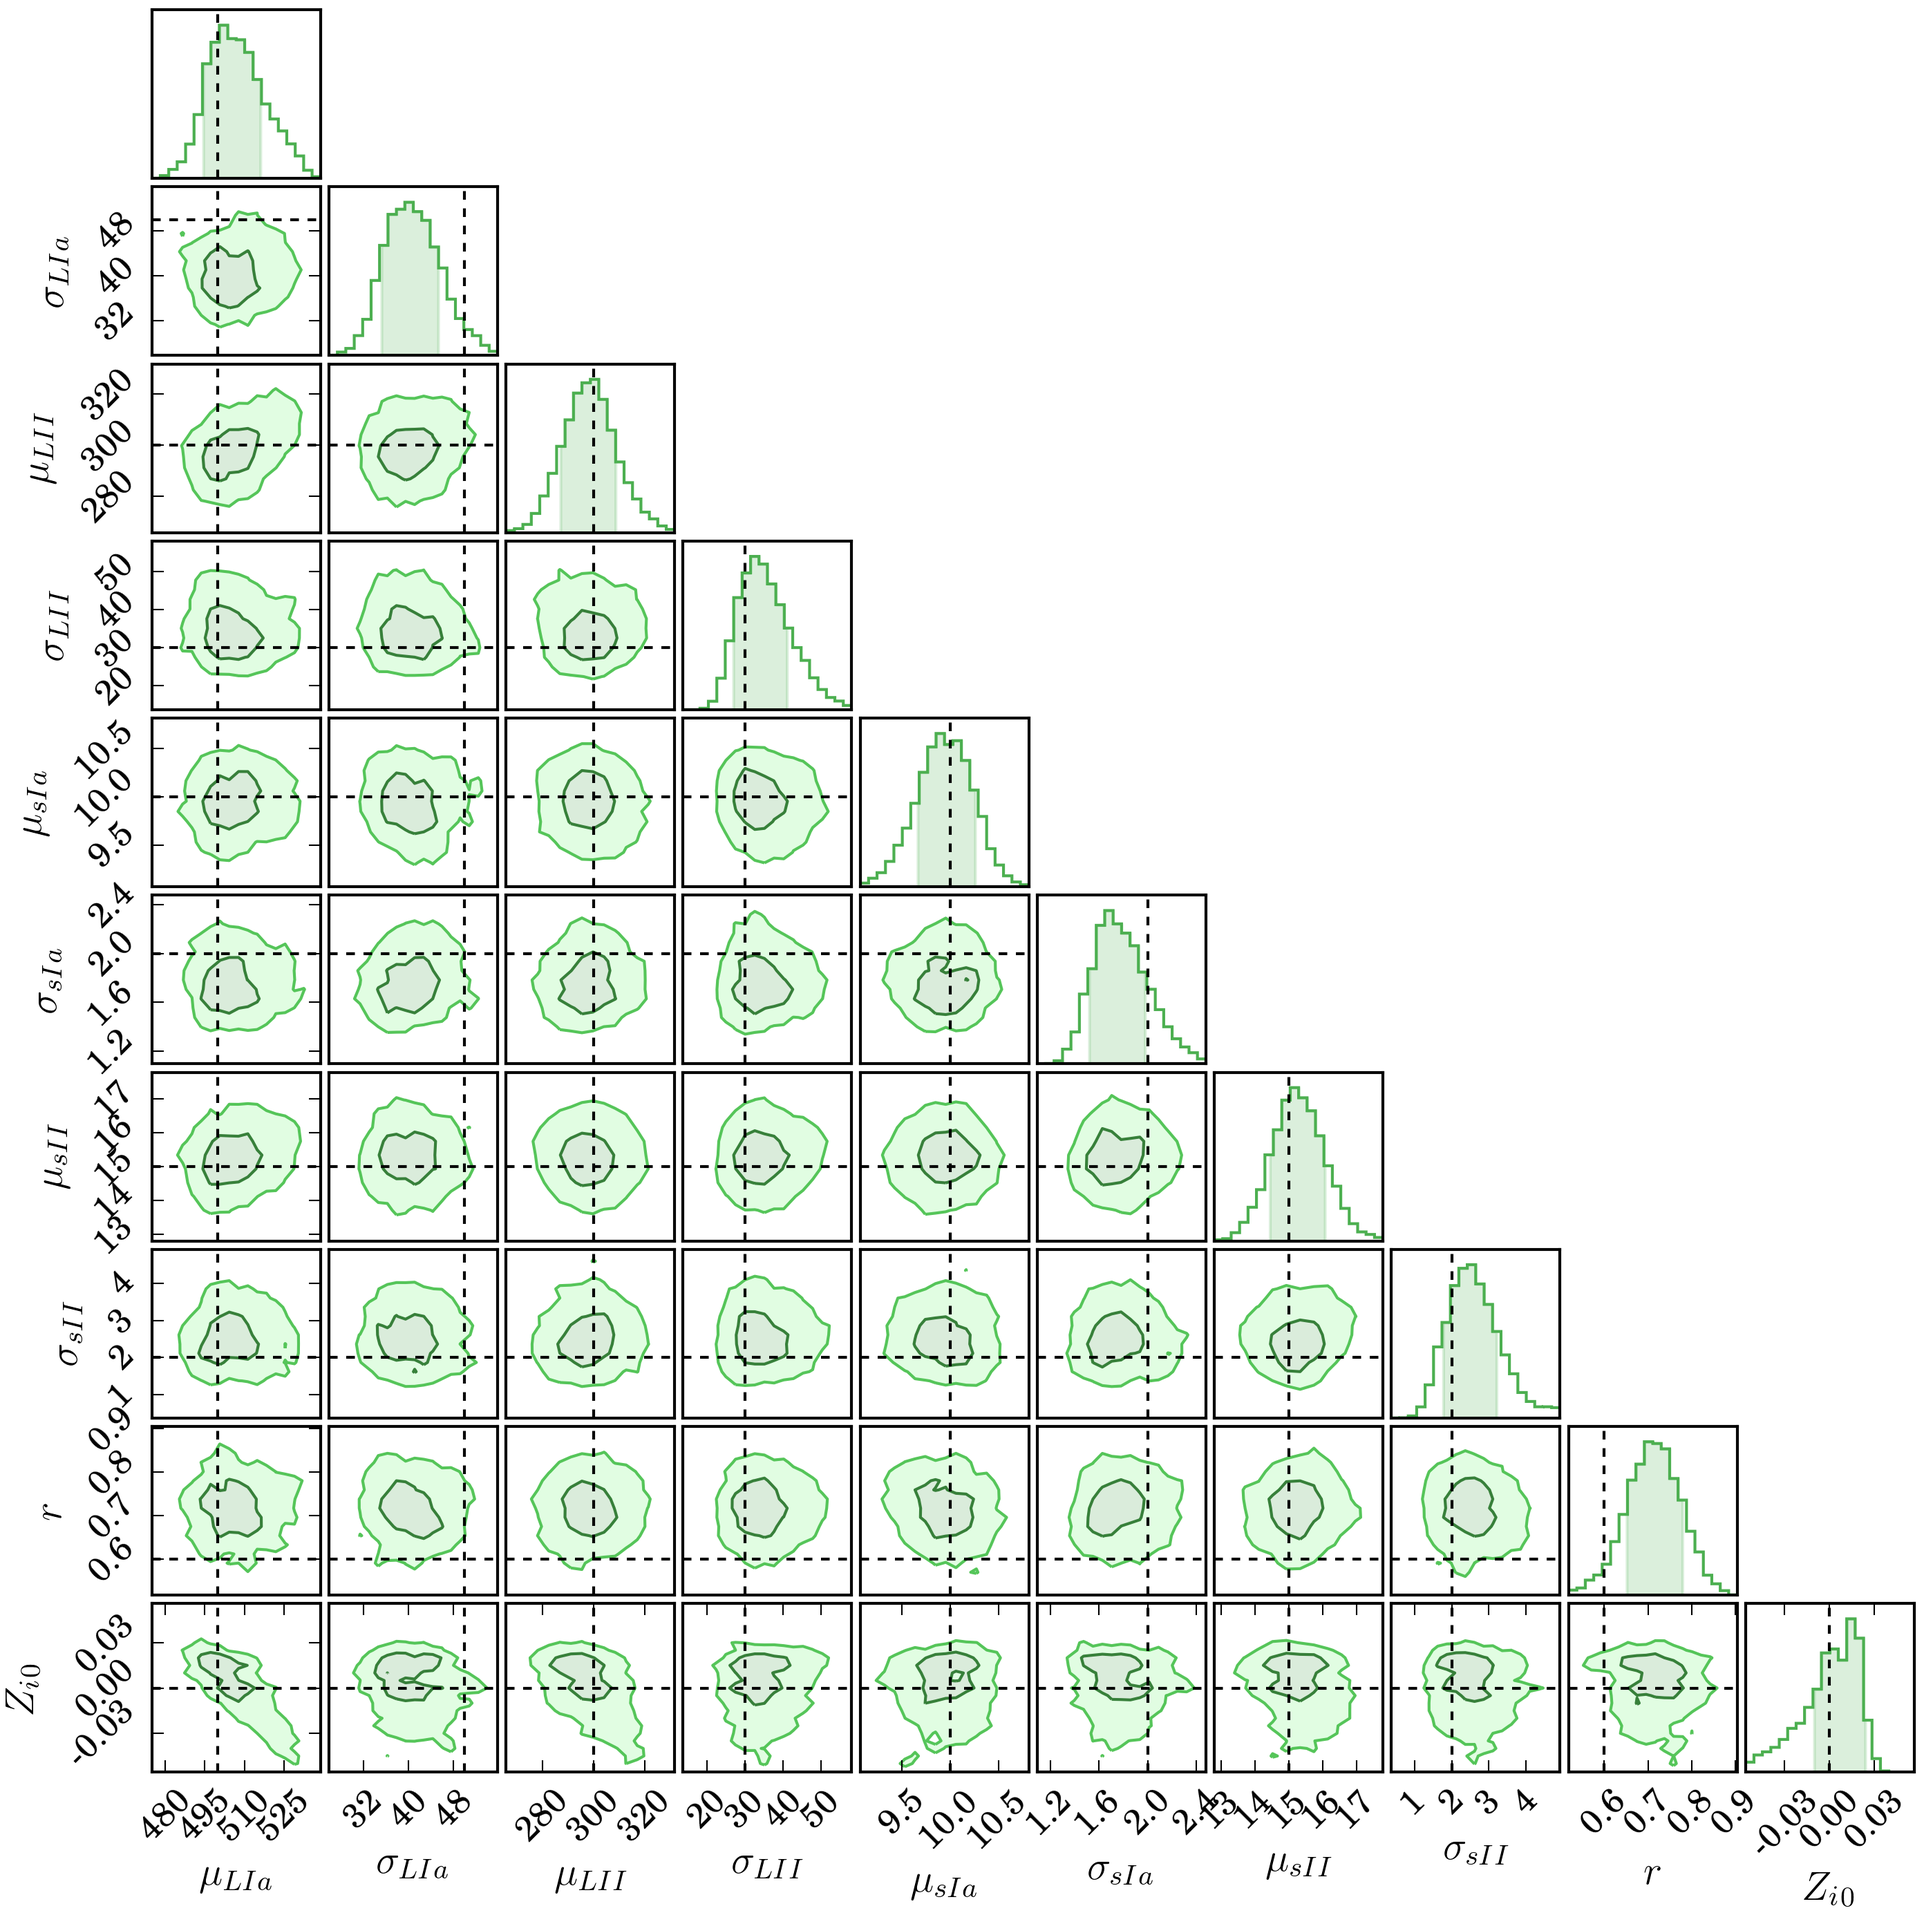
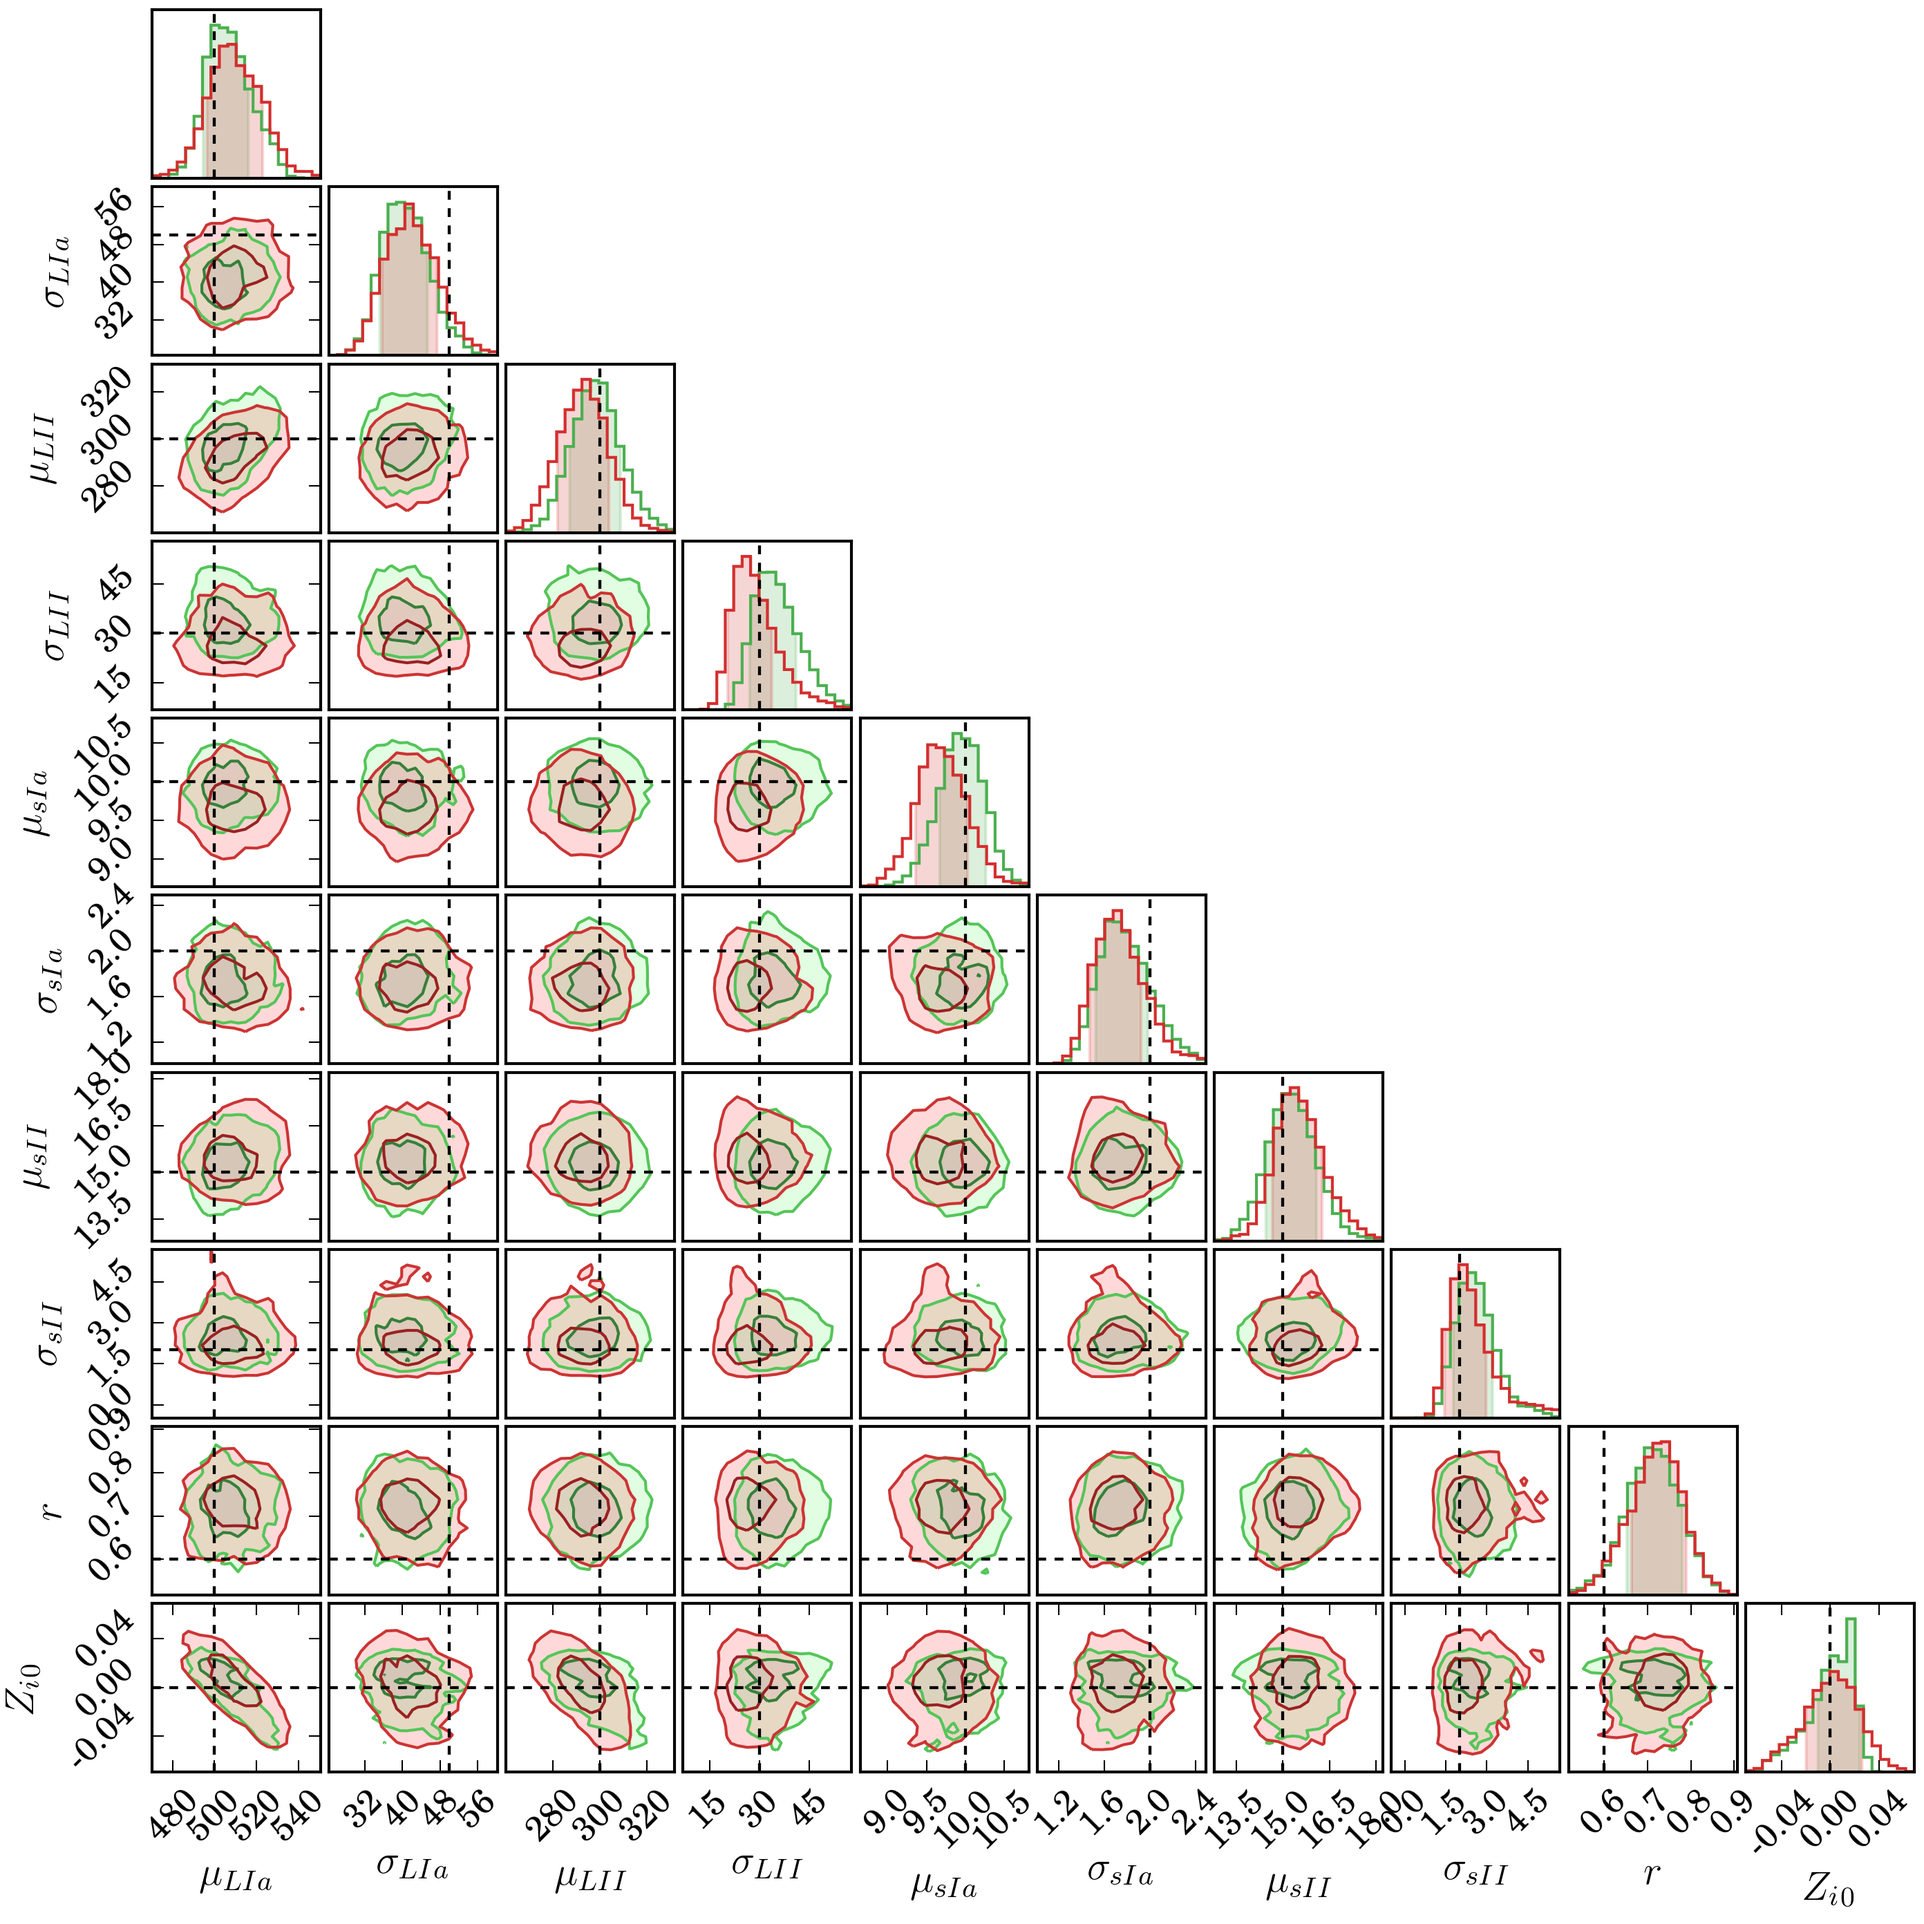
Unfortunately the bias is still not strong. Weights 50% computed.

diff --git a/dessn/proofs/efficiency_9/efficiency_model_9.py b/dessn/proofs/efficiency_9/efficiency_model_9.py
@@ -442,9 +442,12 @@ def get_weights(mul, mul2, sigmal, sigmal2, mus, mus2, sigmas, sigmas2, rate, z0
     ts = np.arange(-30, 30, 1)
     top1 = -(ts * ts)
     top2 = -(ts * ts)**0.5
-    top = type * top1 + (1 - type) * top2
-    interior = top[:, None] / (2 * ss * ss)[None, :]
-    fluxes = (ls / (zs * zs))[None, :] * np.exp(interior)
+    interior1 = top1[:, None] / (2 * ss * ss)[None, :]
+    interior2 = top2[:, None] / (2 * ss * ss)[None, :]
+    fluxes1 = (ls / (zs * zs))[None, :] * np.exp(interior1)
+    fluxes2 = (ls / (zs * zs))[None, :] * np.exp(interior2)
+
+    fluxes = type * fluxes1 + (1 - type) * fluxes2
 
     masks = []
     for z in [z0, z1]:
@@ -587,24 +590,25 @@ if __name__ == "__main__":
         model_good = EfficiencyModelUncorrected(cs, zs, ts, types, calibration, zeros, ls, ss, t0s, name="Good%d" % i)
 
         model_good.fit(sampler, chain_consumer=c)
-        # mtypes = [t for t, m in zip(types, mask) if m]
-        # model_un = EfficiencyModelUncorrected(cs[mask], zs[mask], ts[mask], mtypes, calibration,
-        #                                       zeros, ls[mask], ss[mask], t0s[mask], name="Uncorrected%d" % i)
-        # model_un.fit(sampler, chain_consumer=c)
-        #
-        # biased_chain = c.chains[-1]
-        # filename = dir_name + "/output/weights.txt"
-        # if not os.path.exists(filename):
-        #     weights = []
-        #     for i, row in enumerate(biased_chain):
-        #         weights.append(get_weights(row[0], row[1], row[2], row[3], row[4], row[5], row[6], row[7], row[8], row[9], row[10], threshold))
-        #         print(100.0 * i / biased_chain.shape[0])
-        #     weights = np.array(weights)
-        #     np.savetxt(filename, weights)
-        # else:
-        #     weights = np.loadtxt(filename)
-        # weights = (1 / np.power(weights, mask.sum()))
-        # c.add_chain(biased_chain, name="Importance Sampled", weights=weights)
+        mtypes = [t for t, m in zip(types, mask) if m]
+        model_un = EfficiencyModelUncorrected(cs[mask], zs[mask], ts[mask], mtypes, calibration,
+                                              zeros, ls[mask], ss[mask], t0s[mask], name="Uncorrected%d" % i)
+        model_un.fit(sampler, chain_consumer=c)
+
+        biased_chain = c.chains[-1]
+        filename = dir_name + "/output/weights.txt"
+        if not os.path.exists(filename):
+            weights = []
+            for i, row in enumerate(biased_chain):
+                weights.append(get_weights(row[0], row[1], row[2], row[3], row[4], row[5], row[6],
+                                           row[7], row[8], row[9], row[10], threshold))
+                print(100.0 * i / biased_chain.shape[0])
+            weights = np.array(weights)
+            np.savetxt(filename, weights)
+        else:
+            weights = np.loadtxt(filename)
+        weights = (1 / np.power(weights, mask.sum()))
+        c.add_chain(biased_chain, name="Importance Sampled", weights=weights)
 
     c.configure_bar(shade=True)
     c.configure_general(bins=1.0, colours=colours)
